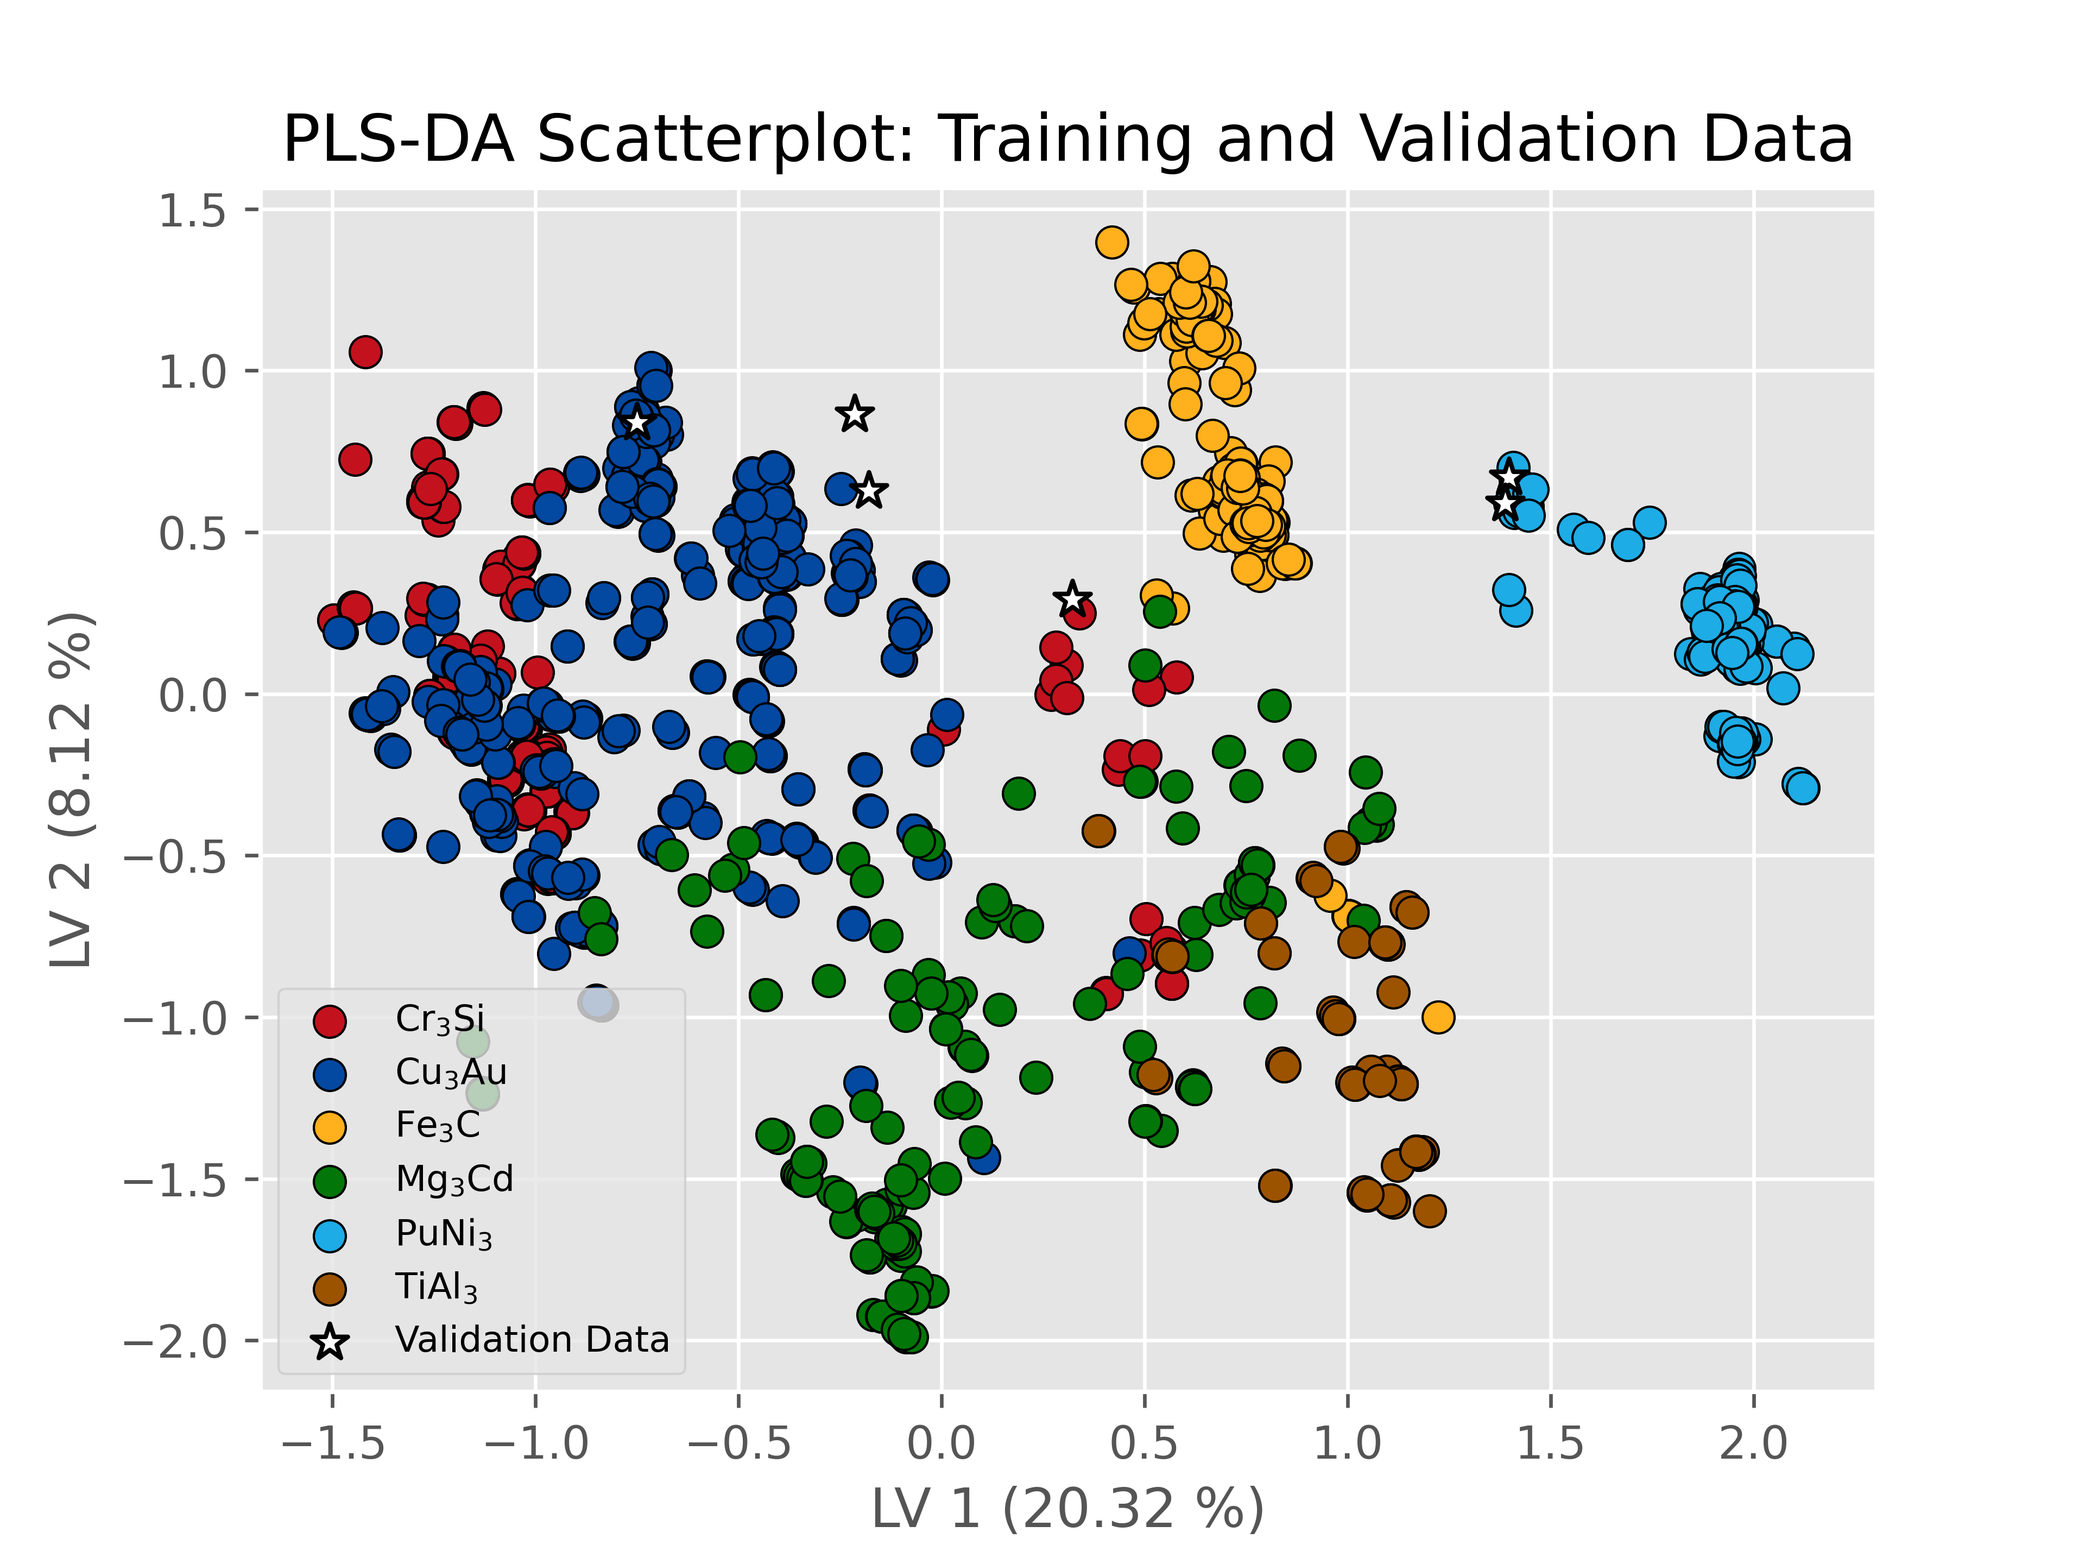
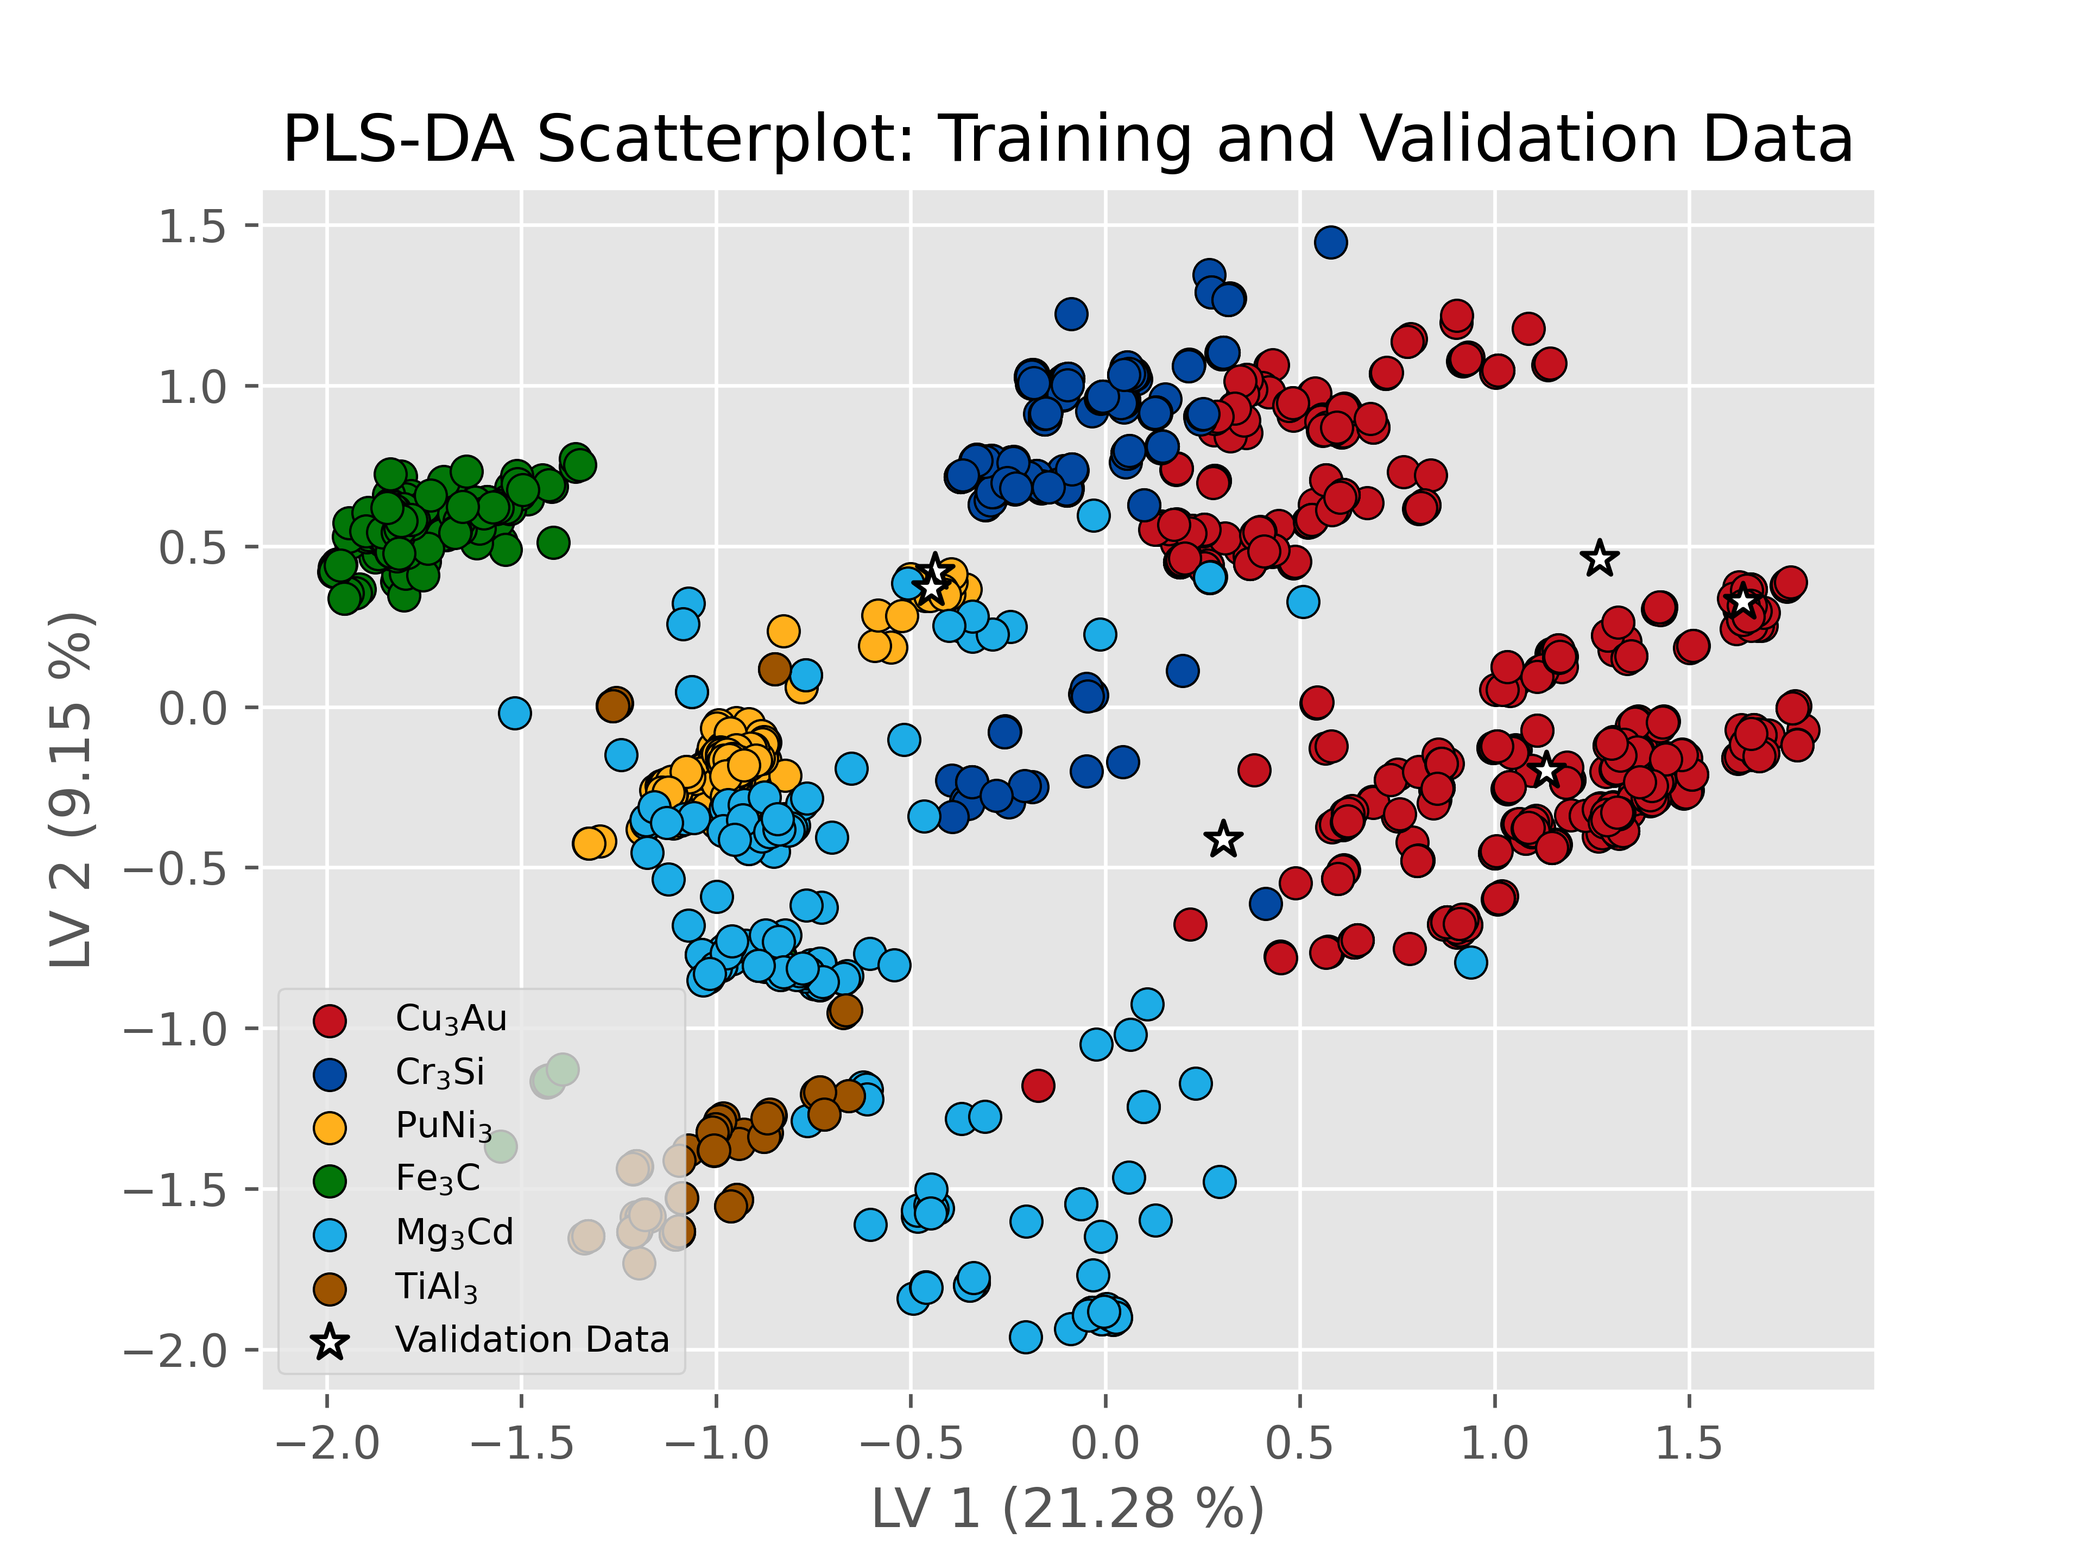
Update labels

diff --git a/core/models/XGBoost.py b/core/models/XGBoost.py
@@ -2,16 +2,39 @@ import matplotlib.pyplot as plt
 import pandas as pd
 from sklearn.metrics import classification_report
 from sklearn.model_selection import StratifiedKFold, cross_val_predict
-from sklearn.preprocessing import LabelEncoder
 from xgboost import XGBClassifier
+import numpy as np
 
 from core import folder
 
+# Define the class-to-integer mapping
+class_mapping = {
+    "Cu3Au": 1,
+    "Cr3Si": 2,
+    "PuNi3": 3,
+    "Fe3C": 4,
+    "Mg3Cd": 5,
+    "TiAl3": 6,
+}
+
+def encode_classes(y, class_mapping):
+    """Encodes the class labels using the provided mapping."""
+    if all(isinstance(label, (int, np.integer)) for label in y):
+        # If y is already numerical, assume it's encoded and return it directly
+        return y
+    return [class_mapping[label] for label in y]
+
+def decode_classes(y_encoded, class_mapping):
+    """Decodes the integer class labels back to their string representation."""
+    reverse_mapping = {v: k for k, v in class_mapping.items()}
+    return [reverse_mapping[label] for label in y_encoded]
 
 def run_XGBoost(X_df, y):
-    # Initialize the Label Encoder and encode the labels
-    encoder = LabelEncoder()
-    y_encoded = encoder.fit_transform(y)  # Do not shift labels here
+    # Encode class labels using the predefined mapping
+    y_encoded = encode_classes(y, class_mapping)
+    
+    # Adjust labels to start from 0 for XGBoost compatibility
+    y_encoded_zero_based = np.array(y_encoded) - 1
 
     # Initialize Stratified K-Fold cross-validator
     skf = StratifiedKFold(n_splits=10, shuffle=True, random_state=19)
@@ -20,18 +43,21 @@ def run_XGBoost(X_df, y):
     model = XGBClassifier(eval_metric="mlogloss")
 
     # Cross-validate and get predictions for each fold
-    y_pred = cross_val_predict(model, X_df, y_encoded, cv=skf)
+    y_pred_zero_based = cross_val_predict(model, X_df, y_encoded_zero_based, cv=skf)
 
-    # Decode predicted labels back to original (shifted for reporting purposes)
-    y_pred_decoded = encoder.inverse_transform(y_pred)
+    # Shift predictions back to 1-based indexing
+    y_pred = y_pred_zero_based + 1
 
     # Evaluate the model
     class_report = classification_report(
-        y, y_pred_decoded, digits=3, output_dict=True, labels=encoder.classes_
+        y_encoded, y_pred, digits=3, output_dict=True
     )
     return class_report
 
-def plot_XGBoost_feature_importance(X_df, y_encoded, csv_file_path):
+def plot_XGBoost_feature_importance(X_df, y, csv_file_path):
+    # Encode class labels using the predefined mapping
+    y_encoded = encode_classes(y, class_mapping)
+
     model = XGBClassifier(eval_metric="mlogloss")
     # Fit the model to the entire dataset to retrieve feature importances
     model.fit(X_df, y_encoded)
@@ -75,38 +101,26 @@ def plot_XGBoost_feature_importance(X_df, y_encoded, csv_file_path):
     plt.close()
 
 def validate_XGBoost(X_train, y_train, X_val, csv_file_path, validation_csv_file):
-    """
-    Validates the XGBoost model on a validation dataset and includes predicted probabilities for each class.
+    # Encode class labels using the predefined mapping
+    y_train_encoded = encode_classes(y_train, class_mapping)
 
-    Parameters:
-        X_train: Training feature matrix.
-        y_train: Training target labels.
-        X_val: Validation feature matrix.
-        csv_file_path: Path of the training data (for output organization).
-        validation_csv_file: Path of the validation data.
-
-    Returns:
-        y_pred_validation: Predicted classes for the validation set.
-        probabilities: Predicted probabilities for each class.
-    """
-    # Initialize the Label Encoder and encode the training labels
-    encoder = LabelEncoder()
-    y_train_encoded = encoder.fit_transform(y_train)  # Keep labels starting from 0 for XGBoost
+    # Adjust labels to start from 0 for XGBoost compatibility
+    y_train_zero_based = np.array(y_train_encoded) - 1
 
     # Initialize the XGBoost Classifier
     model = XGBClassifier(eval_metric="mlogloss", random_state=19)
 
     # Fit the model to the training data
-    model.fit(X_train, y_train_encoded)
+    model.fit(X_train, y_train_zero_based)
 
     # Predict probabilities for the validation set
     probabilities = model.predict_proba(X_val)
 
     # Predicted class labels (0-based)
-    y_pred_encoded = probabilities.argmax(axis=1)
+    y_pred_zero_based = probabilities.argmax(axis=1)
 
-    # Shift the predicted class labels to start from 1
-    y_pred_validation = y_pred_encoded + 1
+    # Shift predictions back to 1-based indexing
+    y_pred_validation = y_pred_zero_based + 1
 
     # Dynamically determine the number of classes from probabilities
     n_classes = probabilities.shape[1]

diff --git a/core/models/PLS_DA.py b/core/models/PLS_DA.py
@@ -10,10 +10,27 @@ from sklearn.metrics import (
 )
 from sklearn.model_selection import StratifiedKFold, cross_val_predict
 from sklearn.preprocessing import LabelEncoder
-from scipy.special import softmax
 
 from core import folder
 
+# Define the class-to-integer mapping
+class_mapping = {
+    "Cu3Au": 1,
+    "Cr3Si": 2,
+    "PuNi3": 3,
+    "Fe3C": 4,
+    "Mg3Cd": 5,
+    "TiAl3": 6,
+}
+
+def encode_classes(y, class_mapping):
+    """Encodes the class labels using the provided mapping."""
+    return np.array([class_mapping[label] for label in y])
+
+def decode_classes(y_encoded, class_mapping):
+    """Decodes the integer class labels back to their string representation."""
+    reverse_mapping = {v: k for k, v in class_mapping.items()}
+    return np.array([reverse_mapping[label] for label in y_encoded])
 
 def find_best_n_dim(X, y, csv_file_path, MAX_N_COMPONENTS=10):
     best_accuracy = 0
@@ -126,51 +143,48 @@ def generate_classification_report(X_scaled, y, pls):
 
 def validate_PLS_DA_model(pls, X, y, X_val, csv_file_path, validation_csv_file):
     """
-    Validates the PLS-DA model on a given validation set and provides raw predicted probabilities.
+    Validates the PLS-DA model using one-vs-rest probabilities for classification.
 
     Parameters:
         pls: Trained PLSRegression model.
         X: Training feature matrix.
         y: Training target array.
         X_val: Validation feature matrix.
-        csv_file_path: Path of the training data (for output organization).
+        csv_file_path: Path of the training data.
         validation_csv_file: Path of the validation data.
 
     Returns:
-        validation_results: DataFrame with predicted classes and probabilities for the validation set.
+        validation_results: DataFrame with predicted class probabilities.
     """
 
-    # Encode string labels to integers using LabelEncoder
-    label_encoder = LabelEncoder()
-    y_encoded = label_encoder.fit_transform(y)
+    # Encode class labels using the predefined mapping
+    y_encoded = encode_classes(y, class_mapping)
 
-    # Fit the PLS model using encoded targets
-    pls.fit(X, pd.get_dummies(y_encoded))
+    # Convert y_encoded to one-hot encoding for regression
+    y_one_hot = pd.get_dummies(y_encoded)
 
-    # Predict continuous scores for the validation set
+    # Train the PLS model
+    pls.fit(X, y_one_hot)
+
+    # Get raw predictions for the validation set
     y_scores_validation = pls.predict(X_val)
 
-    # Apply softmax to normalize predictions to probabilities
-    probabilities = softmax(y_scores_validation, axis=1)
+    # Ensure all predictions are positive and normalize them to probabilities (one-vs-rest)
+    probabilities = np.maximum(y_scores_validation, 0)
+    probabilities = probabilities / probabilities.sum(axis=1, keepdims=True)
 
-    # Convert probabilities to predicted class indices
-    y_pred_validation_encoded = np.argmax(probabilities, axis=1)
+    # Assign predicted class based on the highest probability
+    y_pred_validation_encoded = np.argmax(probabilities, axis=1) + 1  # Classes start from 1
 
-    # Shift class indices to start from 1
-    y_pred_validation = y_pred_validation_encoded + 1
-
-    # Use integer-based class indices for column names
-    class_indices = range(len(label_encoder.classes_))
-    column_names = [f"Class_{i + 1}" for i in class_indices]
-
-    # Save predictions and probabilities to a DataFrame
+    # Save results in a DataFrame
+    column_names = [f"Class_{i}" for i in range(1, len(class_mapping) + 1)]
     validation_results = pd.DataFrame(probabilities, columns=column_names)
     validation_results.insert(0, "Sample", np.arange(1, len(X_val) + 1))
-    validation_results["Predicted Class"] = y_pred_validation
+    validation_results["Predicted Class"] = y_pred_validation_encoded
 
-    # Save the results to a CSV file
+    # Save results to a CSV file
     output_path = folder.create_folder_get_output_path(
-        "PLS_DA", validation_csv_file, suffix="validation_predictions", ext="csv"
+        "PLS_DA", validation_csv_file, suffix="probabilities", ext="csv"
     )
     validation_results.to_csv(output_path, index=False)
 

diff --git a/core/models/PLS_DA_plot.py b/core/models/PLS_DA_plot.py
@@ -1,15 +1,39 @@
 import matplotlib.pyplot as plt
 import numpy as np
 from sklearn.cross_decomposition import PLSRegression
-from sklearn.preprocessing import LabelEncoder
 
 from core import folder
 
+# Define the class-to-integer mapping
+class_mapping = {
+    "Cu3Au": 1,
+    "Cr3Si": 2,
+    "PuNi3": 3,
+    "Fe3C": 4,
+    "Mg3Cd": 5,
+    "TiAl3": 6,
+}
+
+def encode_classes(y, class_mapping):
+    """Encodes the class labels using the provided mapping."""
+    return np.array([class_mapping[label] for label in y])
+
+def format_formula_to_latex(formula):
+    """
+    Convert a chemical formula string into LaTeX format with subscripts.
+    E.g., "H2O" -> "H$_2$O"
+    """
+    formatted = ""
+    for char in formula:
+        if char.isdigit():  # Convert digits to subscript
+            formatted += f"$_{char}$"
+        else:
+            formatted += char
+    return formatted
 
 def plot_two_component(X, y, feature_file_path):
-    # Convert string labels to integers
-    encoder = LabelEncoder()
-    y_encoded = encoder.fit_transform(y)
+    # Encode class labels using the predefined mapping
+    y_encoded = encode_classes(y, class_mapping)
 
     # Load the dataset into PLS
     pls = PLSRegression(n_components=2, scale=False)
@@ -56,7 +80,7 @@ def plot_two_component(X, y, feature_file_path):
                 color=colors[i],
                 s=50,
                 edgecolors="k",
-                label=format_formula_to_latex(encoder.inverse_transform([label])[0]),
+                label=format_formula_to_latex(list(class_mapping.keys())[list(class_mapping.values()).index(label)]),
             )
 
         plt.xlabel(f"LV 1 ({(explained_variance_X[0] * 100):.2f} %)")
@@ -67,11 +91,9 @@ def plot_two_component(X, y, feature_file_path):
         plt.close()
         # plt.show()
 
-
 def plot_two_component_with_validation(X, y, X_val, feature_file_path):
-    # Convert string labels to integers
-    encoder = LabelEncoder()
-    y_encoded = encoder.fit_transform(y)
+    # Encode class labels using the predefined mapping
+    y_encoded = encode_classes(y, class_mapping)
 
     # Train the PLS model with 2 components
     pls = PLSRegression(n_components=2, scale=False)
@@ -112,7 +134,7 @@ def plot_two_component_with_validation(X, y, X_val, feature_file_path):
                 color=colors[i],
                 s=50,
                 edgecolors="k",
-                label=format_formula_to_latex(encoder.inverse_transform([label])[0]),
+                label=format_formula_to_latex(list(class_mapping.keys())[list(class_mapping.values()).index(label)]),
             )
 
         # Plot validation data
@@ -133,18 +155,3 @@ def plot_two_component_with_validation(X, y, X_val, feature_file_path):
         plt.title(f"PLS-DA Scatterplot: Training and Validation Data")  # noqa: F541
         plt.savefig(plot_path, dpi=600)  # Save the plot as a PNG file
         plt.close()
-
-    #print(f"Plot saved to {plot_path}")
-
-def format_formula_to_latex(formula):
-    """
-    Convert a chemical formula string into LaTeX format with subscripts.
-    E.g., "H2O" -> "H$_2$O"
-    """
-    formatted = ""
-    for char in formula:
-        if char.isdigit():  # Convert digits to subscript
-            formatted += f"$_{char}$"
-        else:
-            formatted += char
-    return formatted

diff --git a/core/models/SVM.py b/core/models/SVM.py
@@ -5,8 +5,29 @@ from sklearn.svm import SVC
 
 from core import folder
 
+# Define the class-to-integer mapping
+class_mapping = {
+    "Cu3Au": 1,
+    "Cr3Si": 2,
+    "PuNi3": 3,
+    "Fe3C": 4,
+    "Mg3Cd": 5,
+    "TiAl3": 6,
+}
+
+def encode_classes(y, class_mapping):
+    """Encodes the class labels using the provided mapping."""
+    return [class_mapping[label] for label in y]
+
+def decode_classes(y_encoded, class_mapping):
+    """Decodes the integer class labels back to their string representation."""
+    reverse_mapping = {v: k for k, v in class_mapping.items()}
+    return [reverse_mapping[label] for label in y_encoded]
 
 def get_report(X, y):
+    # Encode class labels using the predefined mapping
+    y_encoded = encode_classes(y, class_mapping)
+
     # Define the model
     model = SVC(kernel="rbf")
 
@@ -14,10 +35,10 @@ def get_report(X, y):
     skf = StratifiedKFold(n_splits=10, shuffle=True, random_state=41)
 
     # Use cross_val_predict to get predictions for each fold
-    y_pred = cross_val_predict(model, X, y, cv=skf)
+    y_pred = cross_val_predict(model, X, y_encoded, cv=skf)
 
     # Evaluating the model, get results as a dictionary
-    report_dict = classification_report(y, y_pred, digits=3, output_dict=True)
+    report_dict = classification_report(y_encoded, y_pred, digits=3, output_dict=True)
     return report_dict
 
 def validate_svc_with_probabilities(X_train, y_train, X_val, csv_file_path, validation_csv_file):
@@ -35,20 +56,20 @@ def validate_svc_with_probabilities(X_train, y_train, X_val, csv_file_path, vali
         probabilities: Probabilities for each class on the validation set.
         y_pred: Predicted classes on the validation set.
     """
+    # Encode class labels using the predefined mapping
+    y_train_encoded = encode_classes(y_train, class_mapping)
+
     # Define the SVC model with probability=True
     model = SVC(kernel="rbf", probability=True, random_state=41)
 
     # Fit the model on the training data
-    model.fit(X_train, y_train)
+    model.fit(X_train, y_train_encoded)
 
     # Predict probabilities for the validation set
     probabilities = model.predict_proba(X_val)
 
     # Predicted class labels (0-based)
-    y_pred = probabilities.argmax(axis=1)
-
-    # Shift the predicted class labels to start from 1
-    y_pred = y_pred + 1
+    y_pred = probabilities.argmax(axis=1) + 1  # Classes start from 1
 
     # Dynamically determine the number of classes from probabilities
     n_classes = probabilities.shape[1]
